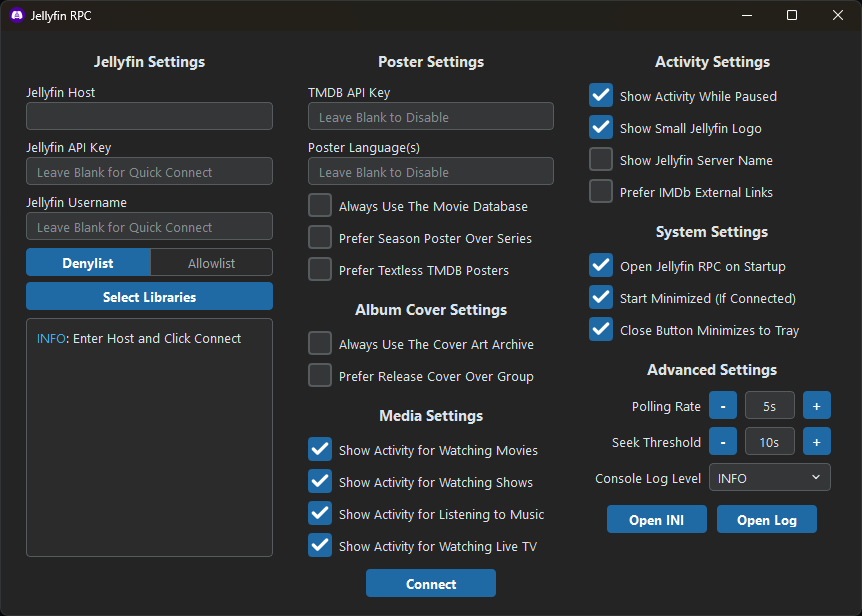
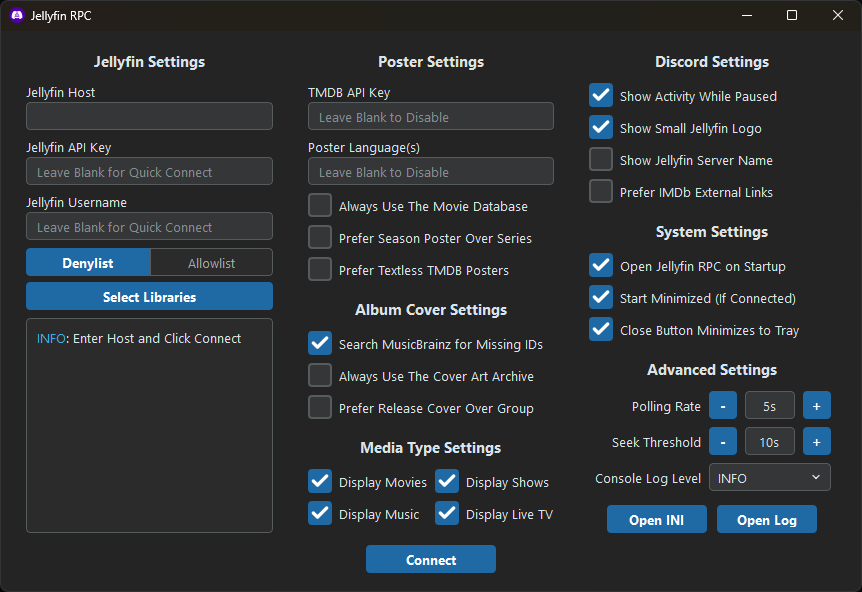
added option to disable missing ID searching

diff --git a/src/jellyfin_rpc/main.py b/src/jellyfin_rpc/main.py
@@ -61,6 +61,7 @@ def load_config(ini_path: str) -> SectionProxy:
     migrate_key('USERNAME', 'JELLYFIN_USERNAME')
     migrate_key('FILTER_MODE', 'LIBRARY_FILTER_TYPE')
     migrate_key('FILTER_LIBRARIES', 'SELECTED_LIBRARIES')
+    migrate_key('ALWAYS_USE_MUSICBRAINZ', 'ALWAYS_USE_COVERART')
     migrate_key('IMDB_EXTERNAL_URLS', 'IMDB_EXTERNAL_LINKS')
     migrate_key('REFRESH_RATE', 'POLLING_RATE')
     migrate_key('FILE_HDLR_LEVEL', 'LOG_LEVEL_FILE')
@@ -884,14 +885,15 @@ async def activity_loop(
         logger.warning('Missing TMDB API Key')
     season_over_series = config.getboolean('SEASON_OVER_SERIES', False)
 
-    always_use_musicbrainz = config.getboolean('ALWAYS_USE_MUSICBRAINZ', False)
+    musicbrainz_search = config.getboolean('MUSICBRAINZ_SEARCH', True)
+    always_use_coverart = config.getboolean('ALWAYS_USE_COVERART', False)
     release_over_group = config.getboolean('RELEASE_OVER_GROUP', False)
 
     library_filter_type = config.get('LIBRARY_FILTER_TYPE', 'DENYLIST').upper()
     selected_libraries = parse_delimited_list(config, 'SELECTED_LIBRARIES')
 
     media_types = parse_delimited_list(config, 'MEDIA_TYPES')
-    type_mapping = {'Movies': 'Movie', 'Shows': 'Episode', 'Music': 'Audio', 'Live TV': 'TvChannel'}
+    type_mapping = {'Movies': 'Movie', 'Shows': 'Episode', 'Music': 'Audio', 'LiveTV': 'TvChannel'}
 
     media_priority: dict[str, int] = {}
     for i, media_type in enumerate(media_types):
@@ -1339,14 +1341,14 @@ async def activity_loop(
 
                         if not group_id and release_id:
                             group_id = await get_music_id_from_release(cache_session, release_id)
-                        if not group_id:
+                        if not group_id and musicbrainz_search:
                             logger.warning('No MusicBrainz ID Found. Searching...')
                             if 'AlbumArtist' in media_dict and 'Album' in media_dict:
                                 group_id = await get_music_id_from_search(
                                     cache_session, media_dict['AlbumArtist'], media_dict['Album']
                                 )
 
-                        if not always_use_musicbrainz and album_id and is_https:
+                        if not always_use_coverart and album_id and is_https:
                             poster_url = f'{jf_host}/Items/{album_id}/Images/Primary/0'
                         elif group_id:
                             cover_release_id = release_id if release_over_group else None
@@ -1374,27 +1376,26 @@ async def activity_loop(
                         is_movie = program.get('IsMovie')
                         is_series_match, series_tmdb_id = False, None
 
-                        if tmdb_api_key:
-                            if tmdb_id:
-                                if not is_movie:
-                                    series_tmdb_id = tmdb_id
+                        if tmdb_api_key and tmdb_id:
+                            if not is_movie:
+                                series_tmdb_id = tmdb_id
+                                is_series_match = True
+                        elif tmdb_api_key and series_name:
+                            logger.warning('No TMDB ID Found. Searching...')
+                            if is_movie:
+                                tmdb_id = await get_movie_id(
+                                    cache_session, tmdb_api_key, series_name
+                                )
+                            else:
+                                series_tmdb_id = await get_series_id(
+                                    cache_session, tmdb_api_key, series_name
+                                )
+                                if series_tmdb_id:
                                     is_series_match = True
-                            elif series_name:
-                                logger.warning('No TMDB ID Found. Searching...')
-                                if is_movie:
+                                else:
                                     tmdb_id = await get_movie_id(
                                         cache_session, tmdb_api_key, series_name
                                     )
-                                else:
-                                    series_tmdb_id = await get_series_id(
-                                        cache_session, tmdb_api_key, series_name
-                                    )
-                                    if series_tmdb_id:
-                                        is_series_match = True
-                                    else:
-                                        tmdb_id = await get_movie_id(
-                                            cache_session, tmdb_api_key, series_name
-                                        )
 
                         if not always_use_tmdb and is_https:
                             program_id = program.get('Id')

diff --git a/src/jellyfin_rpc/app.py b/src/jellyfin_rpc/app.py
@@ -560,17 +560,26 @@ class RPCWindow(QWidget):
         self.create_checkbox(col2, 'TEXTLESS_POSTERS', 'Prefer Textless TMDB Posters')
 
         col2.addWidget(self.create_header('Album Cover Settings'))
-        self.create_checkbox(col2, 'ALWAYS_USE_MUSICBRAINZ', 'Always Use The Cover Art Archive')
+        self.create_checkbox(col2, 'SEARCH_MUSICBRAINZ', 'Search MusicBrainz for Missing IDs')
+        self.create_checkbox(col2, 'ALWAYS_USE_COVERART', 'Always Use The Cover Art Archive')
         self.create_checkbox(col2, 'RELEASE_OVER_GROUP', 'Prefer Release Cover Over Group')
 
-        col2.addWidget(self.create_header('Media Settings'))
-        self.create_checkbox(col2, 'MOVIES', 'Show Activity for Watching Movies')
-        self.create_checkbox(col2, 'SHOWS', 'Show Activity for Watching Shows')
-        self.create_checkbox(col2, 'MUSIC', 'Show Activity for Listening to Music')
-        self.create_checkbox(col2, 'LIVE TV', 'Show Activity for Watching Live TV')
+        col2.addWidget(self.create_header('Media Type Settings'))
+        media_layout = QGridLayout()
+        media_layout.setContentsMargins(0, 0, 0, 0)
+        media_layout.setVerticalSpacing(8)
+        media_layout.setColumnStretch(0, 1)
+        media_layout.setColumnStretch(1, 1)
+
+        media_layout.addWidget(self.create_checkbox(None, 'MOVIES', 'Display Movies'), 0, 0)
+        media_layout.addWidget(self.create_checkbox(None, 'SHOWS', 'Display Shows'), 0, 1)
+        media_layout.addWidget(self.create_checkbox(None, 'MUSIC', 'Display Music'), 1, 0)
+        media_layout.addWidget(self.create_checkbox(None, 'LIVETV', 'Display Live TV'), 1, 1)
+
+        col2.addLayout(media_layout)
         col2.addStretch()
 
-        col3.addWidget(self.create_header('Activity Settings'))
+        col3.addWidget(self.create_header('Discord Settings'))
         self.create_checkbox(col3, 'SHOW_WHEN_PAUSED', 'Show Activity While Paused')
         self.create_checkbox(col3, 'SHOW_JELLYFIN_LOGO', 'Show Small Jellyfin Logo')
         self.create_checkbox(col3, 'SHOW_SERVER_NAME', 'Show Jellyfin Server Name')
@@ -690,11 +699,12 @@ class RPCWindow(QWidget):
         layout.addLayout(container)
         return LabeledEntry(entry, obfuscate)
 
-    def create_checkbox(self, layout: QVBoxLayout, key: str, text: str) -> QCheckBox:
+    def create_checkbox(self, layout: QVBoxLayout | None, key: str, text: str) -> QCheckBox:
         checkbox = QCheckBox(text)
         checkbox.setCursor(Qt.CursorShape.PointingHandCursor)
         checkbox.clicked.connect(self.on_setting_changed)
-        layout.addWidget(checkbox)
+        if layout is not None:
+            layout.addWidget(checkbox)
         self.checkboxes[key] = checkbox
         return checkbox
 
@@ -748,7 +758,7 @@ class RPCWindow(QWidget):
         self.checkboxes['MOVIES'].setChecked('Movies' in media_types)
         self.checkboxes['SHOWS'].setChecked('Shows' in media_types)
         self.checkboxes['MUSIC'].setChecked('Music' in media_types)
-        self.checkboxes['LIVE TV'].setChecked('Live TV' in media_types)
+        self.checkboxes['LIVETV'].setChecked('LiveTV' in media_types)
 
         checkbox_vars = [
             ('SHOW_WHEN_PAUSED', True),
@@ -758,7 +768,8 @@ class RPCWindow(QWidget):
             ('ALWAYS_USE_TMDB', False),
             ('TEXTLESS_POSTERS', False),
             ('SEASON_OVER_SERIES', False),
-            ('ALWAYS_USE_MUSICBRAINZ', False),
+            ('SEARCH_MUSICBRAINZ', True),
+            ('ALWAYS_USE_COVERART', False),
             ('RELEASE_OVER_GROUP', False),
             ('START_MINIMIZED', True),
             ('MINIMIZE_ON_CLOSE', True),
@@ -805,21 +816,16 @@ class RPCWindow(QWidget):
         )
         config_parser.set('DEFAULT', 'LOG_LEVEL', self.checkbox_log_level.currentText())
 
-        type_mapping = {
-            'MOVIES': 'Movies',
-            'SHOWS': 'Shows',
-            'MUSIC': 'Music',
-            'LIVE TV': 'Live TV',
-        }
+        type_mapping = {'MOVIES': 'Movies', 'SHOWS': 'Shows', 'MUSIC': 'Music', 'LIVETV': 'LiveTV'}
         media_types = [
             type_mapping[key]
-            for key in ['MOVIES', 'SHOWS', 'MUSIC', 'LIVE TV']
+            for key in ['MOVIES', 'SHOWS', 'MUSIC', 'LIVETV']
             if self.checkboxes[key].isChecked()
         ]
         config_parser.set('DEFAULT', 'MEDIA_TYPES', ','.join(media_types))
 
         for key in self.checkboxes:
-            if key not in ('MOVIES', 'SHOWS', 'MUSIC', 'LIVE TV'):
+            if key not in ('MOVIES', 'SHOWS', 'MUSIC', 'LIVETV'):
                 config_parser.set('DEFAULT', key, str(self.checkboxes[key].isChecked()).lower())
 
         with open(self.ini_path, 'w', encoding='utf-8') as f:

diff --git a/README.md b/README.md
@@ -59,7 +59,7 @@ If running in headless/CLI mode, configuration is loaded from an INI file. If yo
 | `JELLYFIN_API_KEY` | — | Jellyfin API key. Generated automatically when authenticating with Quick Connect. |
 | `JELLYFIN_USERNAME` | — | Jellyfin username whose playback sessions are displayed in Discord. |
 | `TMDB_API_KEY` | — | TMDB API key. Required for posters if your Jellyfin server is hosted locally. |
-| `MEDIA_TYPES` | `Movies, Shows, Music, Live TV` | Comma-separated list of enabled media types. Ordered from highest to lowest display priority (`Movies`, `Shows`, `Music`, `Live TV`). |
+| `MEDIA_TYPES` | `Movies, Shows, Music, LiveTV` | Comma-separated list of enabled media types. Ordered from highest to lowest display priority (`Movies`, `Shows`, `Music`, `LiveTV`). |
 | `SHOW_WHEN_PAUSED` | `true` | Shows paused activities with a small icon in the bottom right of the poster or album cover instead of a progress bar. Pausing clears the activity when disabled. |
 | `SHOW_SERVER_NAME` | `false` | Shows your Jellyfin server name as the activity name instead of "Jellyfin". |
 | `SHOW_JELLYFIN_LOGO` | `true` | Shows a small Jellyfin logo in the bottom right of the poster or album cover. |
@@ -68,7 +68,8 @@ If running in headless/CLI mode, configuration is loaded from an INI file. If yo
 | `TEXTLESS_POSTERS` | `false` | Prioritizes textless TMDB posters over language-specific posters. |
 | `ALWAYS_USE_TMDB` | `false` | Uses TMDB as the primary source for posters. Serves as a fallback for missing artwork in Jellyfin when disabled. |
 | `SEASON_OVER_SERIES` | `false` | Prioritizes season posters over series posters for TV shows. |
-| `ALWAYS_USE_MUSICBRAINZ` | `false` | Uses the Cover Art Archive (MusicBrainz) as the primary source for album covers. Serves as a fallback for missing artwork in Jellyfin when disabled. |
+| `SEARCH_MUSICBRAINZ` | `true` | Searches MusicBrainz by artist and album title when IDs are missing in Jellyfin. |
+| `ALWAYS_USE_COVERART` | `false` | Uses the Cover Art Archive as the primary source for album covers. Serves as a fallback for missing artwork in Jellyfin when disabled. |
 | `RELEASE_OVER_GROUP` | `false` | Prioritizes [release](https://musicbrainz.org/doc/Release) artwork over [release group](https://musicbrainz.org/doc/Release_Group) artwork for music. |
 | `LIBRARY_FILTER_TYPE` | `Denylist` | Filter behavior for selected libraries. Controls whether these libraries are allowed or blocked (`Allowlist` or `Denylist`). |
 | `SELECTED_LIBRARIES` | — | Comma-separated list of Jellyfin library IDs to allow or block. Found as the `topParentId` parameter in the web client URL. |
